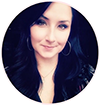
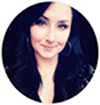
Hamburger menu & Changes
Worked on Hamburger Menu in order to learn it fully. Changed some images. Added new images.

diff --git a/newIndex.html b/newIndex.html
@@ -1,0 +1,93 @@
+<!DOCTYPE html>
+<html lang="en">
+
+<head>
+    <meta charset="UTF-8">
+    <meta name="viewport" content="width=device-width, initial-scale=1.0">
+    <title>Portfolio Prototype Design</title>
+    <link rel="stylesheet" href="CSS/newStyle.css">
+    <link href="https://fonts.googleapis.com/css2?family=Dancing+Script:wght@700&display=swap" rel="stylesheet">
+    <link href="https://fonts.googleapis.com/css2?family=Dancing+Script&display=swap" rel="stylesheet">
+</head>
+
+<body>
+
+
+    <header class="header">
+        <div class="photo"><img srcset=" images/portraitPhoto50.png 50w, images/portraitPhoto75.png 75w, images/portraitPhoto100.png 100w" sizes="(max-width: 600px) 50px , 100px" src="images/portraitPhoto100.png" alt="Profile picture of Brittani Bree Ann Taylor"></div>
+        <div class="name">
+            <h1>Brittani Bree Ann Taylor</h1>
+        </div>
+        <div>
+            <input class="menu-btn" type="checkbox" id="menu-btn" />
+            <label class="menu-icon" for="menu-btn"><span class="nav-icon"></span></label>
+            <ul class="menu">
+                <li><a href="index.html">Home</a></li>
+                <li><a href="#contact">About</a></li>
+                <li><a href="#feat">Featured Projects</a></li>
+                <li><a href="#contact">Contact</a></li>
+            </ul>
+        </div>
+    </header>
+
+
+    <div class="container">
+        <!-- ********************  PROJECTS / PORTFOLIO  ********************* -->
+        <h2 class="grid-item" id="feat">Featured Projects (...for now)</h2>
+
+        <div class="firstFeat">
+            <div class="block first ">
+                <img srcset="images/wineTastingFlyer75.jpg 75w, images/wineTastingFlyer150.jpg 150w, images/wineTastingFlyer200.jpg 200w" sizes="(max-width: 1200px) 75px , 200px" src="images/wineTastingFlyer300.jpg" alt="Wine tasting flyer I created using a photo of a vine yard with two glasses of wine and a bottle on a barrel. Underneath, I used a wine colored background to contrast the font detailing the event.">
+            </div>
+            <div class="block second">
+                <img srcset="images/yogaFlyer75.jpg 75w, images/yogaFlyer150.jpg 150w, images/yogaFlyer200.jpg 200w" sizes="(max-width: 1200px) 75px , 200px" src="images/yogaFlyer300.jpg" alt="Yoga Classes Flyer I created using a peaceful nature setting with a woman in a yoga pose.">
+            </div>
+            <div class="block third ">
+                <img srcset="images/golfFlyer75.jpg 75w, images/golfFlyer150.jpg 150w, images/golfFlyer200.jpg 200w" sizes="(max-width: 1200px) 75px , 200px" src="images/golfFlyer300.jpg" alt="Junior Golf flyer I created using green background and white contrasting font. There are also two photos on the advertisement of children golfing and having a good time. ">
+            </div>
+            <div class="block fourth">
+                <img srcset="images/mother'sDayFlyer75.jpg 75w, images/mother'sDayFlyer150.jpg 150w, images/mother'sDayFlyer200.jpg 200w" sizes="(max-width: 1200px) 75px , 200px" src="images/mother'sDayFlyer300.jpg" alt="Mother's Day Brunch Flyer I created using pink roses and tied in the pink but using it for the font detailing the menu options.">
+            </div>
+        </div>
+        <div class="secondFeat">
+            <div class="block larger1">
+                <img srcset=" images/firstWebPageInWeb210_150.jpg 150w, images/firstWebPageInWeb210_300.jpg 300w, images/firstWebPageInWeb210_400.jpg 400w" sizes="(max-width: 1200px) 150px , 400px" src="images/firstWebPageInWeb210_600.jpg" alt="Screenshot of the first website I created in Web 210. It's a profile website with a portrait of myself, a purple background, and and introduction">
+            </div>
+            <div class="block larger2">
+                <img srcset=" images/memberWebsite150.jpg 150w, images/memberWebsite300.jpg 300w, images/memberWebsite400.jpg 400w" sizes="(max-width: 1200px) 150px , 400px" src="images/memberWebsite600.jpg" alt="Screenshot of a member website I helped maintain while I was working with this company. Shows the simple to use login page with a photo of the country club at the top of the website page.">
+            </div>
+        </div>
+
+
+        <!-- End of Project block. -->
+
+        <!-- *****************  CONTACT INFO / SOCIAL MEDIA  ***************** -->
+        <div class="grid-item" id="contact">
+            <footer>
+                <h2>Contact Me Below</h2>
+
+                <!-- Social media and contact links. Add or remove any networks. -->
+                <ul class=" contact-list ">
+                    <li class="icons ">
+                        <a href="mailto:bbreezytaylorwebdesign@gmail.com "><img srcset="images/mailIcon16.png 16w, images/mailIcon.png 32w" sizes="(max-width: 600px;) 16px, 32px" src=images/mailIcon.png " alt="bbreezytaylorwebdesign@gmail.com "></a>
+                    </li>
+                    <li class="icons ">
+                        <a href="tel:000-000-0000 "><img srcset="images/phoneIcon16.png 16w, images/phoneIcon.png 32w" sizes="(max-width: 600px;) 16px, 32px" src="images/phoneIcon.png " alt="fake phone 000-000-0000 "></a>
+                    </li>
+                    <li class="icons ">
+                        <a href="https://www.linkedin.com/in/brittani-taylor-a5a774186" target="_blank"><img srcset="images/linkedinIcon16.png 16w, images/linkedinIcon.png 32w" sizes="(max-width: 600px;) 16px, 32px" src="images/linkedinIcon.png " alt="LinkedIn Account "></a>
+                    </li>
+                    <li class="icons ">
+                        <a href="https://www.instagram.com/bbreezytaylorwebdesigns/" target="_blank"><img srcset="images/instaIcon16.png 16w, images/instaIcon.png 32w" sizes="(max-width: 600px;) 16px, 32px" src="images/instaIcon.png " alt="https://www.instagram.com/bbreezytaylorwebdesigns/ "></a>
+                    </li>
+                    <li class="icons ">
+                        <a href="https://www.facebook.com/bree.taylor.14203544" target="_blank"><img srcset="images/facebookIcon.png 16w, images/facebookIcon.png 32w" sizes="(max-width: 600px;) 16px, 32px" src="images/facebookIcon.png" alt="https://www.facebook.com/bree.taylor.14203544"></a>
+                    </li>
+                </ul>
+            </footer>
+        </div>
+    </div>
+
+</body>
+
+</html>

diff --git a/CSS/newStyle.css b/CSS/newStyle.css
@@ -1,0 +1,201 @@
+body {
+    margin: 0;
+    background-color: black;
+    color: pink;
+    font-family: 'Dancing Script', cursive;
+    font-size: 1.25vw;
+    text-shadow: #ffe6f3 1px 0 10px;
+    text-align: center;
+}
+
+a {
+    color: #000;
+}
+
+.header {
+    box-shadow: pink 1px 0 10px;
+    position: fixed;
+    width: 100%;
+    z-index: 3;
+}
+
+.header ul {
+    margin: 0;
+    padding: 0;
+    list-style: none;
+    overflow: hidden;
+    background-color: black;
+}
+
+.header li a {
+    display: block;
+    color: pink;
+    outline: 1px solid pink;
+    padding: 20px;
+    border-right: 1px solid #ffe6f3;
+    text-decoration: none;
+}
+
+.header li a:hover,
+.header .menu-btn:hover {
+    background-color: #ddd;
+}
+
+.header .photo {
+    display: block;
+    float: left;
+    padding: 10px;
+}
+
+.header .name {
+    float: left;
+    font-size: 1.5rem;
+}
+
+
+/*menu*/
+
+.header .menu {
+    clear: both;
+    max-height: 0;
+    transition: max-height .2s ease-out;
+}
+
+
+/*menu icon */
+
+.header .menu-icon {
+    outline: 1px solid red;
+    padding: 28px 20px;
+    position: relative;
+    float: right;
+    cursor: pointer;
+}
+
+.header .menu-icon .nav-icon {
+    background: #333;
+    display: block;
+    height: 2px;
+    width: 18px;
+    position: relative;
+    transition: background .2s ease-out;
+    width: 18px;
+}
+
+.header .menu-icon .nav-icon:before {
+    background: #333;
+    content: "";
+    display: block;
+    height: 100%;
+    width: 100%;
+    position: absolute;
+    transition: all .2 ease-out;
+    top: 5px;
+}
+
+.header .menu-icon .nav-icon:after {
+    background: #333;
+    content: "";
+    display: block;
+    height: 100%;
+    width: 100%;
+    position: absolute;
+    transition: all .2 ease-out;
+    top: -5px;
+}
+
+.header .menu-btn {
+    display: none;
+}
+
+.header .menu-btn:checked~.menu {
+    max-height: 400px;
+}
+
+.header .menu-btn:checked~.menu-icon .nav-icon {
+    background: transparent;
+}
+
+.header .menu-btn:checked~.menu-icon .nav-icon:before {
+    transform: rotate(-45deg);
+    top: 0;
+}
+
+.header .menu-btn:checked~.menu-icon .nav-icon:after {
+    transform: rotate(45deg);
+    top: 0;
+}
+
+.container {
+    display: grid;
+    grid-template-columns: 1fr 2fr;
+    grid-template-rows: auto;
+    margin: auto;
+    max-width: 1200px;
+    column-gap: 5px;
+    row-gap: 15px;
+}
+
+.firstFeat {
+    display: flex;
+    align-items: center;
+    justify-content: space-evenly;
+    grid-row: 4/5;
+    grid-column: 1/3;
+}
+
+.secondFeat {
+    display: flex;
+    align-items: center;
+    justify-content: space-evenly;
+    grid-row: 5/6;
+    grid-column: 1/3;
+}
+
+footer {
+    border: 2px solid pink;
+    box-shadow: pink 1px 0 10px;
+    margin: 20px 0 20px 0;
+}
+
+.icons {
+    box-shadow: pink 1px 0 10px;
+    border-radius: 50px;
+    margin: 20px;
+}
+
+#contact {
+    grid-row: 6/7;
+    grid-column: 1/3;
+}
+
+.contact-list {
+    list-style-type: none;
+    display: flex;
+    justify-content: center;
+    align-content: space-around;
+}
+
+.contact-list a {
+    display: inline-block;
+}
+
+
+/* 48em = 768px @ 16pt font */
+
+@media (min-width: 48em) {
+    .header li {
+        float: left;
+    }
+    .header li a {
+        padding: 20px 30px;
+    }
+    .header .menu {
+        clear: both;
+        float: right;
+        max-height: none;
+    }
+    .header .menu-icon {
+        display: none;
+    }
+}
